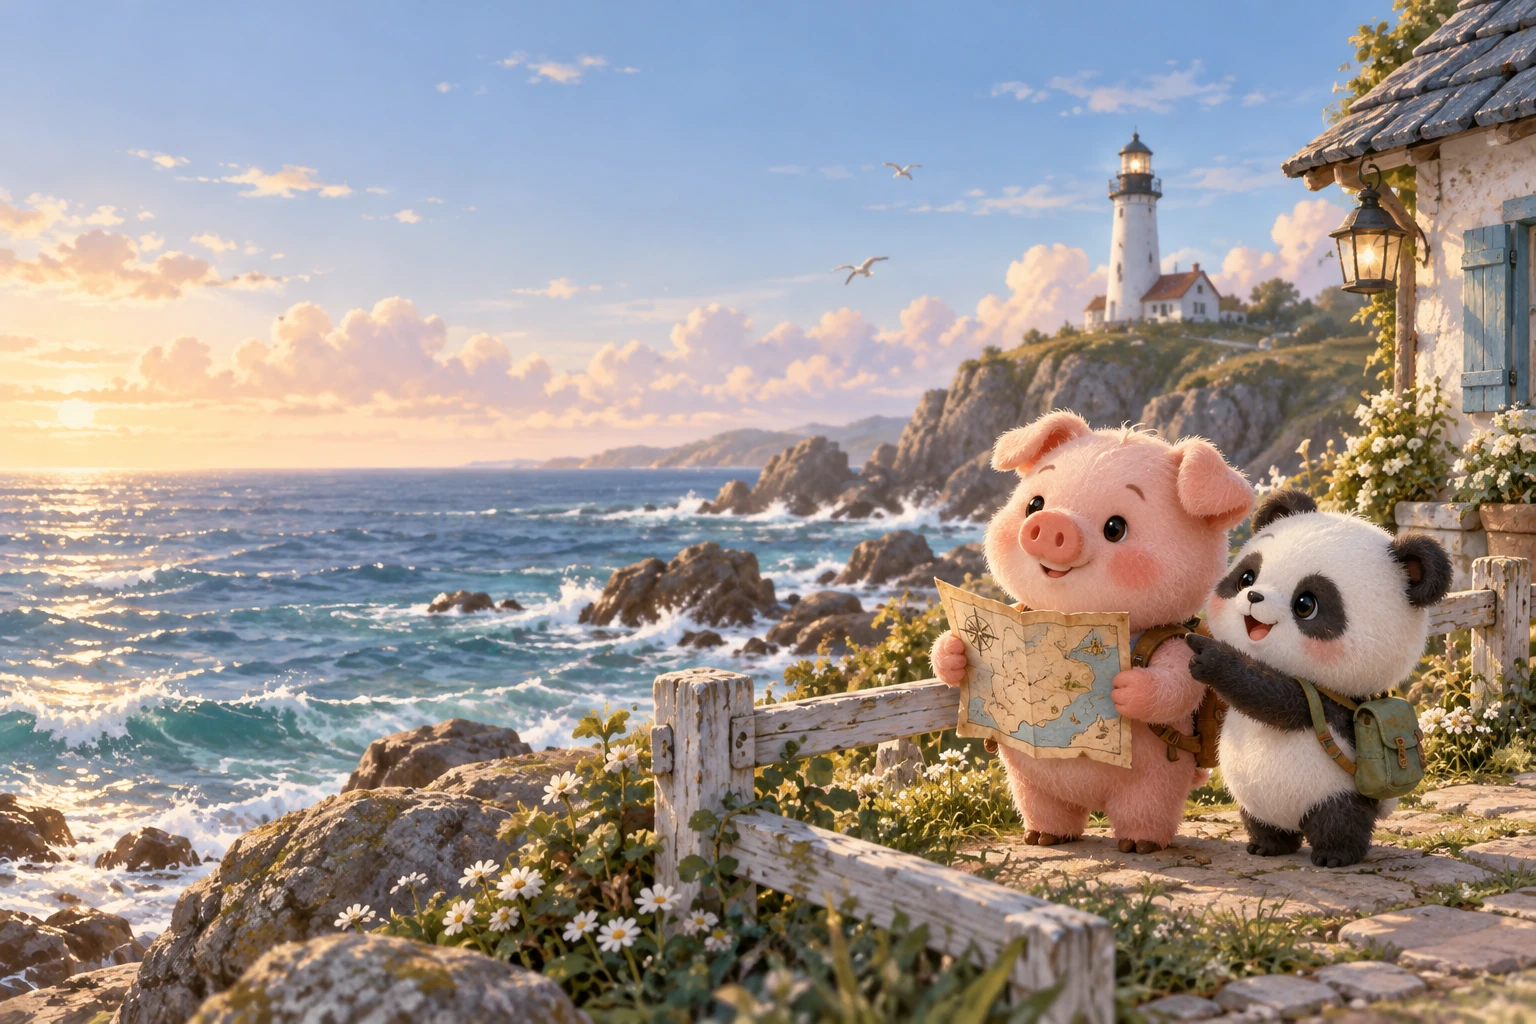
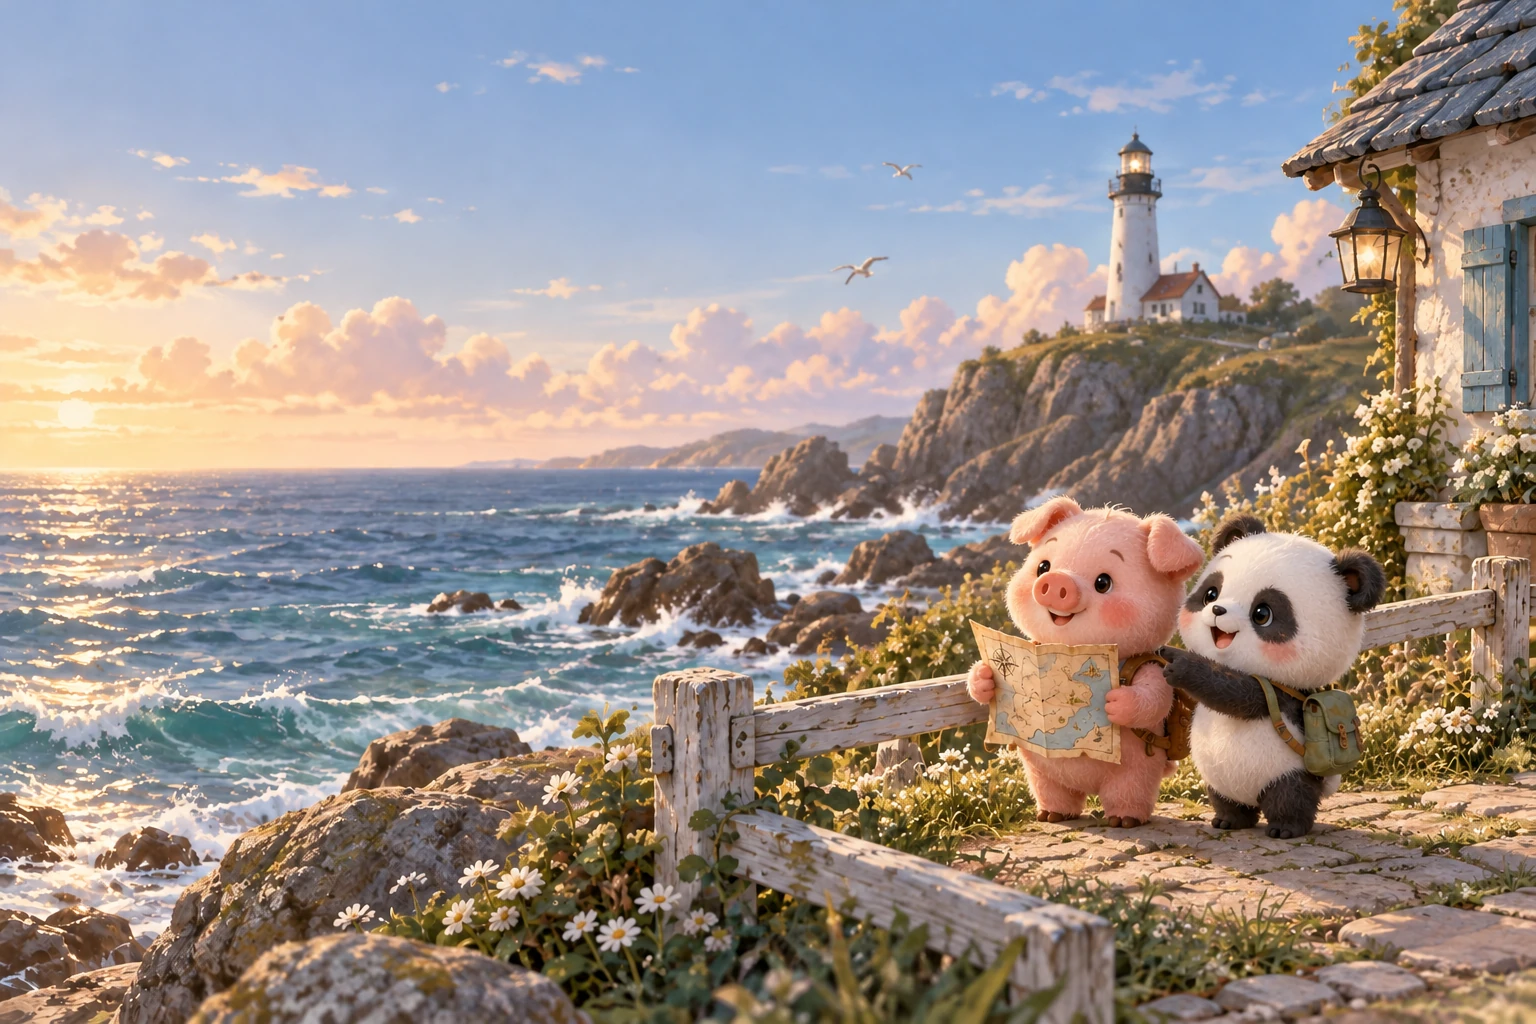
Correct six more companion proportions and tighten character scale guidance

diff --git a/README.md b/README.md
@@ -59,3 +59,5 @@ npm run build
 - 請勿在此 GitHub 帳號的其他 Pages 網站執行不可信程式碼；同帳號 Pages 專案共用瀏覽器 origin。
 
 目前舊 Sites 不會被此儲存庫停用、刪除或同步；完成新站驗證後再決定是否停用舊站。
+
+- 角色比例修正紀錄與目前驗收規格：`art/proportion-corrections.json`。兩隻體型幾乎相同，小熊貓僅略小，生圖以同景深下頭徑與等效站立身高約為小豬的 95–98% 為目標，再逐張目視驗收。
